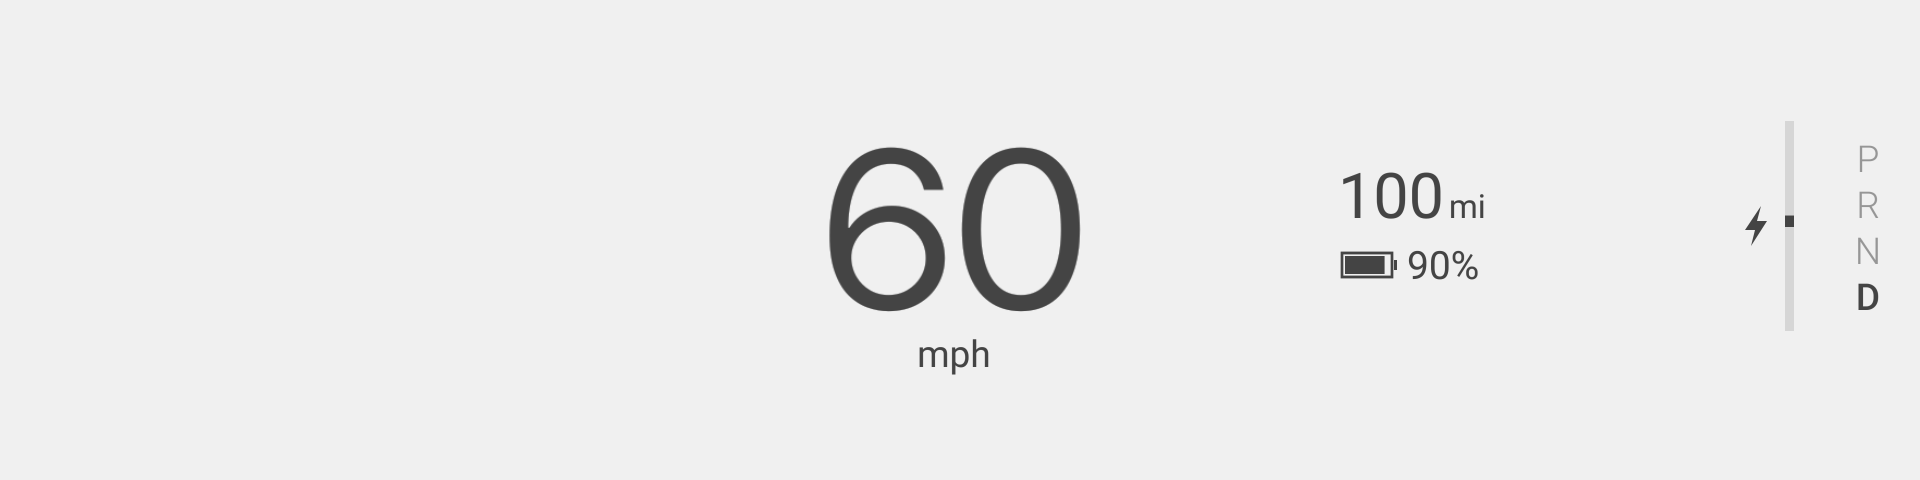
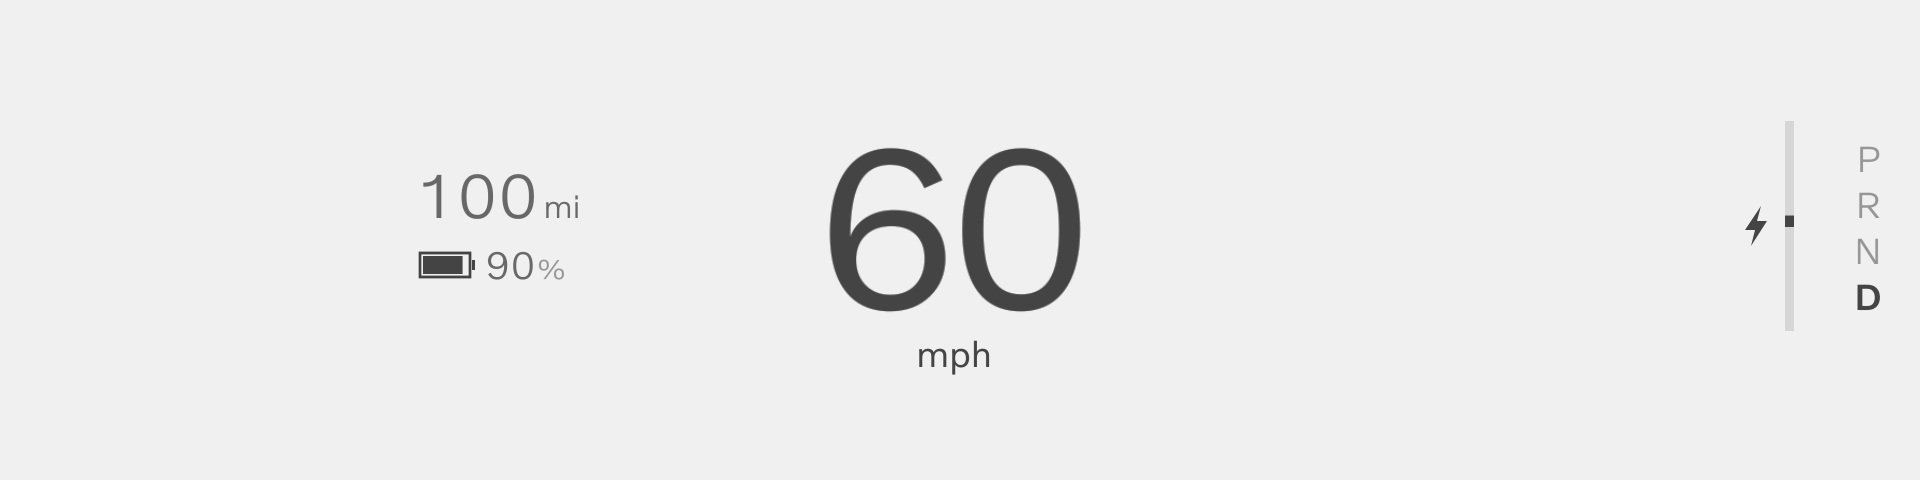
Capture the left-hand readings in the recovered Volvo typefaces

diff --git a/display/cluster.py b/display/cluster.py
@@ -225,7 +225,7 @@ def draw(ctx, width, height, fields, lettering=None, *, dark=False, message=""):
         capacity = number(fields, "pack_capacity_wh")
     if energy is not None and energy >= 0 and capacity is not None and capacity > 0:
         percent = min(100, 100 * energy / capacity)
-        battery(ctx, reading_x + 4, 237, percent, reading_ink)
+        battery(ctx, reading_x + 4, 237, percent, ink)
         x, y, size = reading_x + 69, 263, 39
         advance = paint_text(ctx, whole(percent), x, y, size, reading_ink, lettering)
         sign_scale = lettering.percent_scale if lettering else 0.72

diff --git a/README.md b/README.md
@@ -2,12 +2,16 @@
 
 A Bluetooth instrument display for the Volvo EX30. A read-only Android Automotive app sends readings directly to a Raspberry Pi. The instruments follow the layout of the **EX90 Calm** display, with the EX30's light and dark styling.
 
-![Day preview with a centered speed of zero, range and battery charge to the right, and Park selected](docs/calm-day.png)
+![Day preview with range and battery charge on the left, a centred speed of zero, and Park selected on the right](docs/calm-day.png)
 ![Night preview of the same instruments](docs/calm-night.png)
 
 The screenshots come from the running Pi kiosk on a 1920 × 480 virtual screen. Speed uses **Volvo Novum Regular with tabular lining digits** when available. The EX30 emulator ships Novum Regular 2.001 at `/product/fonts/VolvoNovum-Regular.ttf`. The launcher and System UI contain identical copies. Its tabular 8 and 0 are 530 and 510 font units wide and both are 712 units tall. At the 139-pixel height in Volvo’s published EX30 Calm view, those outlines predict widths of 103.5 and 99.6 pixels. The image measures 104 and 100. The 12-pixel gap comes from the image. The factory screen’s exact text-style declaration on retail 2.x remains unverified. [Volvo’s EX30 Calm view](https://www.volvocars.com/uk/cars/ex30-electric/features/) · [Volvo’s archived EX30 emulator catalog](https://web.archive.org/web/20260903221015id_/https://developer.volvocars.com/sdk/volvo-sys-img.xml)
 
-Speed is centred and occupies about 34% of the wide panel’s height, following the EX90 photograph. Its digit width and spacing follow the EX30 top strip. The other readings use Regular, and the gear column uses SemiLight and Medium. On systems without the Volvo font, including the Google Automotive emulator used for these screenshots, speed uses the project’s Inter font at weight 360. [Volvo’s EX90 photograph, p. 43](https://www.volvocars-news.ch/wp-content/uploads/2022/12/Volvo_FTM_2_2022_DE.pdf#page=43)
+Speed is centred and occupies about 34% of the wide panel’s height, following the EX90 photograph. Its digit width and spacing follow the EX30 top strip. The gear column uses Novum SemiLight and Medium. [Volvo’s EX90 photograph, p. 43](https://www.volvocars-news.ch/wp-content/uploads/2022/12/Volvo_FTM_2_2022_DE.pdf#page=43)
+
+Range and battery charge sit to the left of speed. Both use Novum SemiLight with tabular digits. SemiLight was the closest visual match to the EX30 top strip, with Regular a close second. The emulator’s decoded `activity_charging.xml` specifies 136 sp and 40 sp for its charging settings page. The top strip’s own font weight remains unverified. Volvo’s image shows a percent sign about 16–17 pixels tall beside 23-pixel numerals. The kiosk uses Novum’s shorter percent glyph at 72% of the digits’ visible height and aligns their bottoms. [Volvo’s EX30 Calm view](https://www.volvocars.com/uk/cars/ex30-electric/features/)
+
+For these captures, a local Android test build loaded the three Novum faces from the archived EX30 emulator and sent the rendered lettering to the kiosk over Bluetooth. The distributed app looks up those faces on the car. When they are unavailable, it uses the bundled Inter at weight 330 for range and charge and 360 for speed.
 
 ## Connect
 
